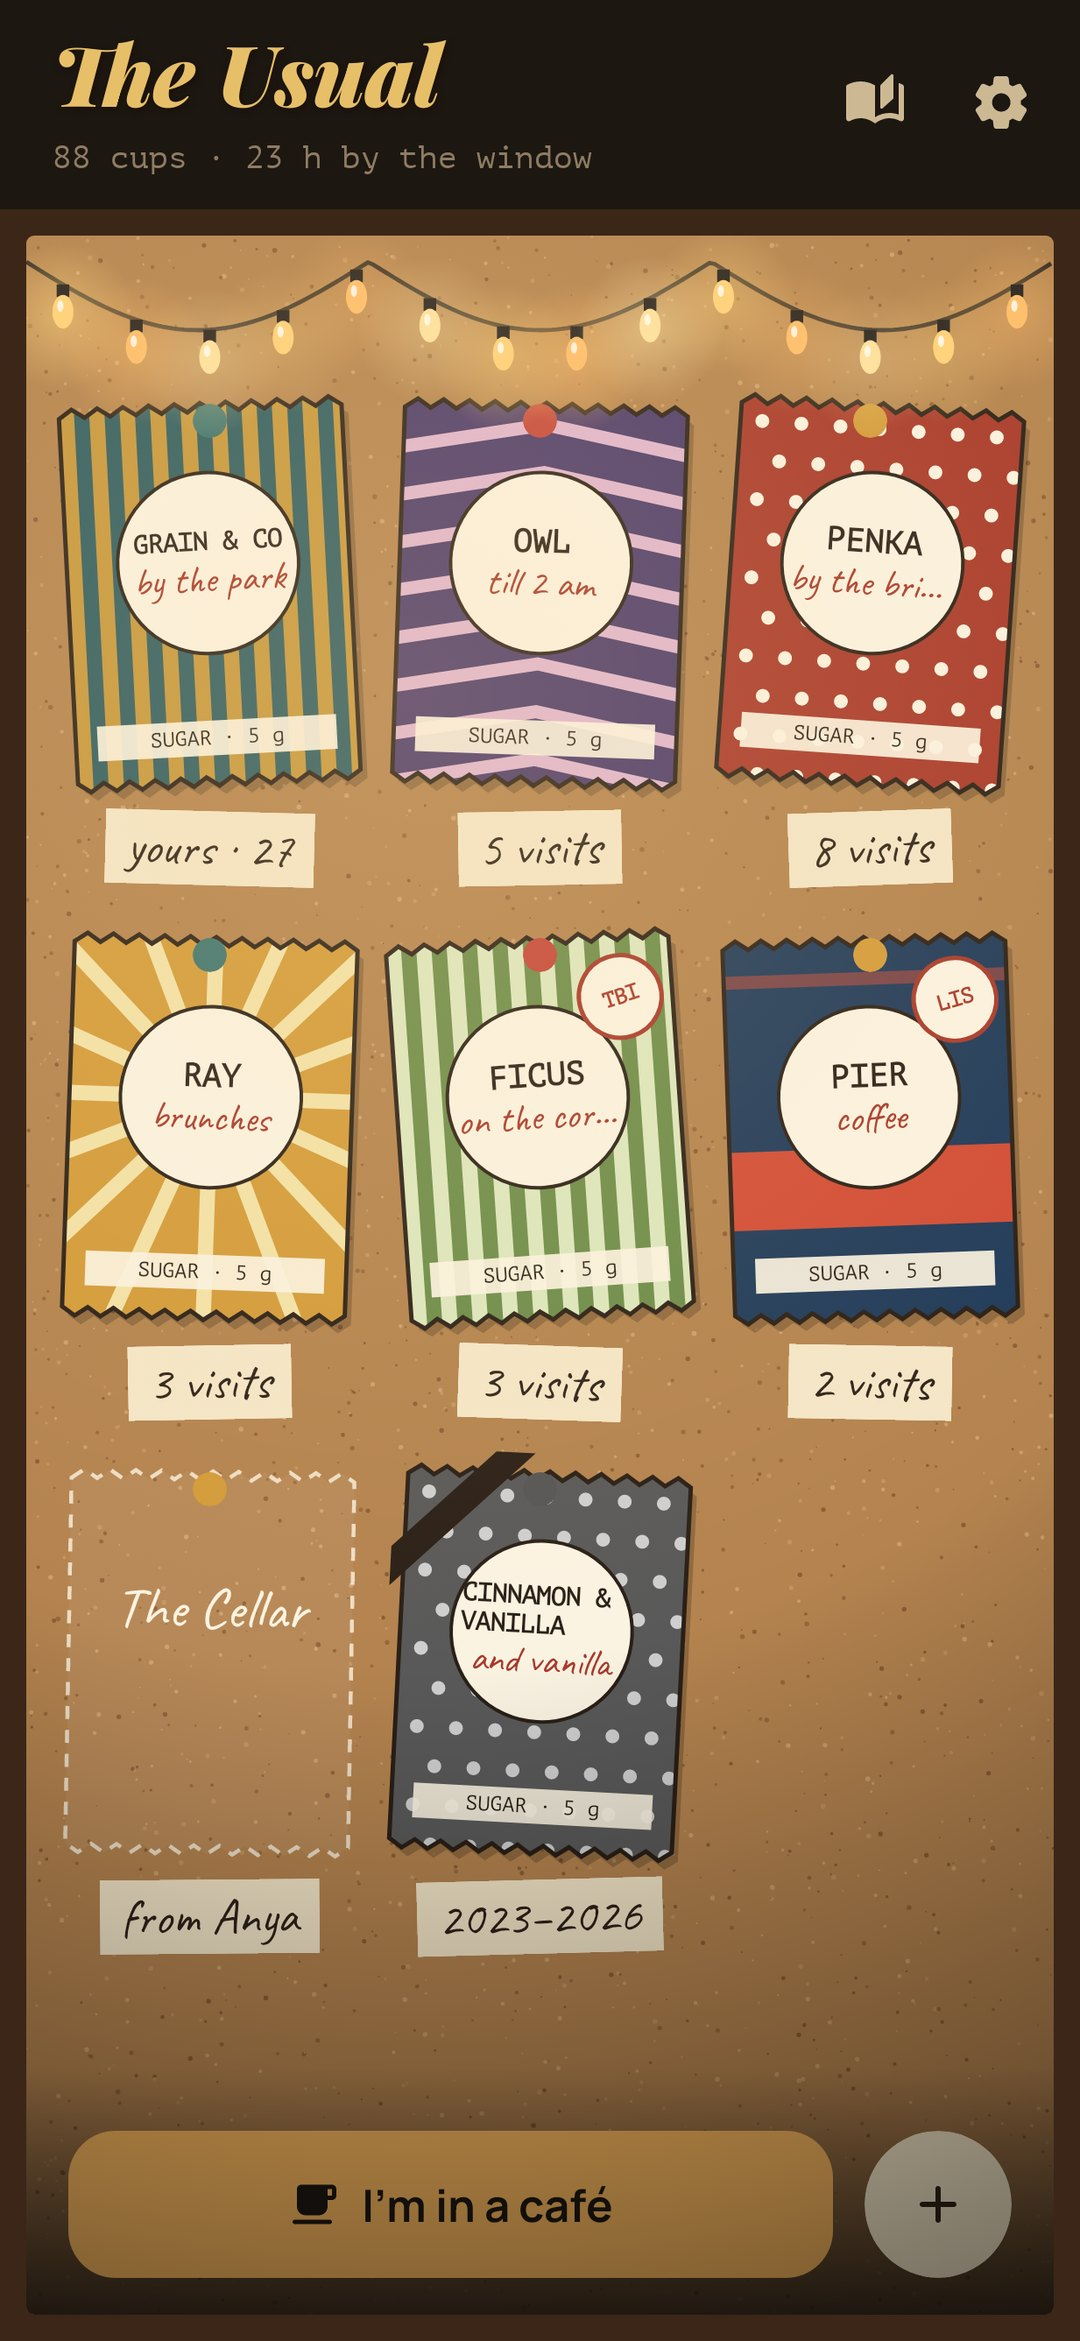
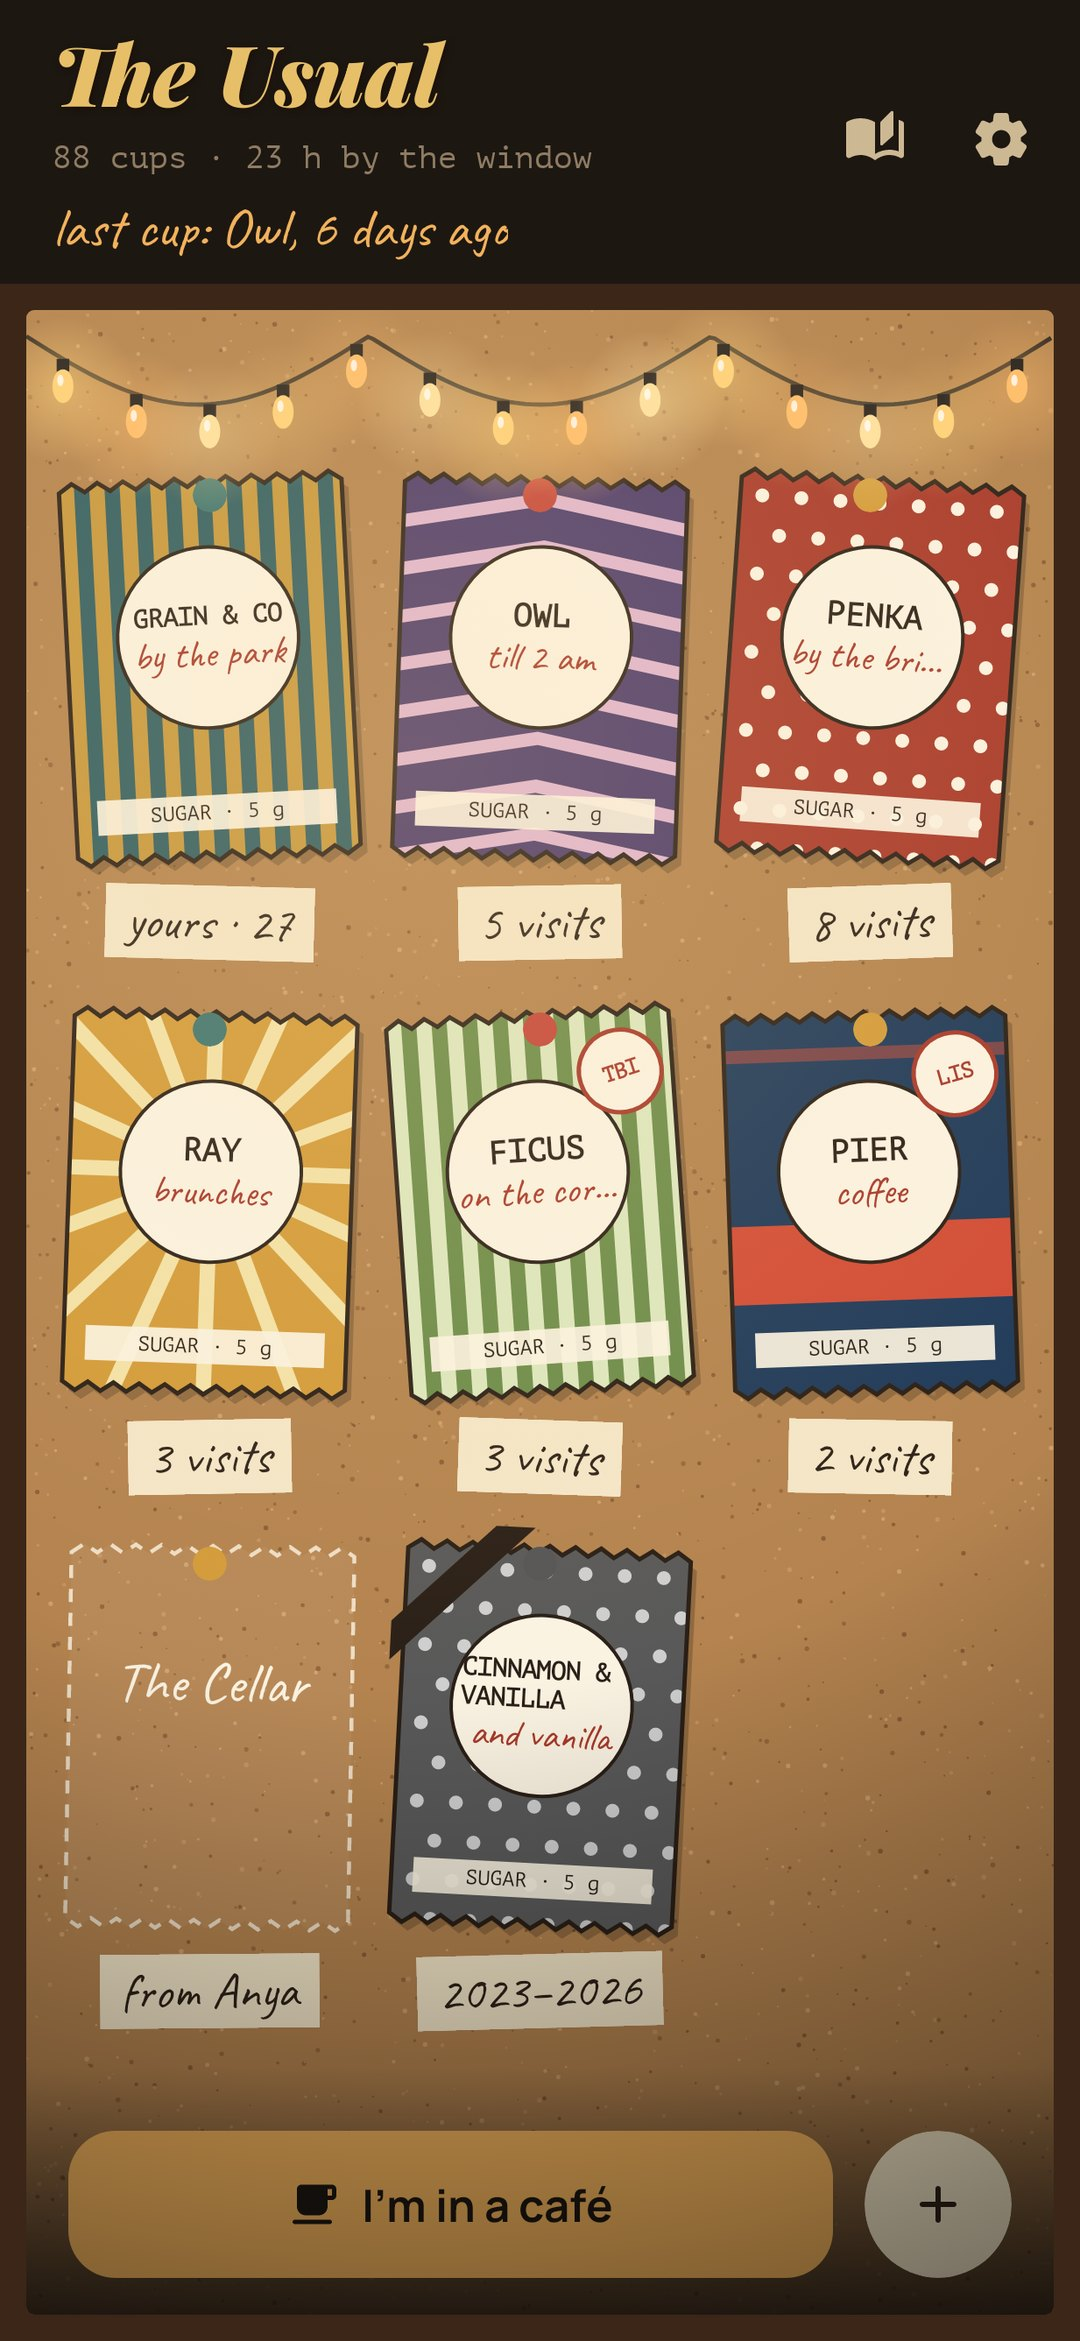
Board shows the last cup; menu gets a label; no '0 min by the window'

diff --git a/app/src/main/java/app/theusual/ui/cafe/CafeScreen.kt b/app/src/main/java/app/theusual/ui/cafe/CafeScreen.kt
@@ -107,7 +107,7 @@ fun CafeScreen(id: Long, h: Home, go: Go) {
                     if (!cafe.closed) IconButton(onClick = { go.share(id) }) { Icon(Icons.AutoMirrored.Rounded.Send, stringResource(R.string.send_packet), tint = U.c.ink) }
                     IconButton(onClick = { go.edit(id) }) { Icon(Icons.Rounded.Edit, stringResource(R.string.edit), tint = U.c.ink) }
                     Box {
-                        IconButton(onClick = { menu = true }) { Icon(Icons.Rounded.MoreVert, null, tint = U.c.ink) }
+                        IconButton(onClick = { menu = true }) { Icon(Icons.Rounded.MoreVert, stringResource(R.string.more), tint = U.c.ink) }
                         DropdownMenu(menu, { menu = false }) {
                             if (cafe.closed) DropdownMenuItem({ Text(stringResource(R.string.reopened)) }, { menu = false; c.container.write { diary.reopen(id) } })
                             else DropdownMenuItem({ Text(stringResource(R.string.it_closed)) }, { menu = false; closing = true })
@@ -173,8 +173,9 @@ private fun Memorial(cafe: Cafe, h: Home) {
         Spacer(Modifier.height(14.dp))
         val first = h.visits(cafe.id).lastOrNull()?.at ?: cafe.addedAt
         Text("${Rules.year(first)} — ${Rules.year(cafe.closedAt)}", fontFamily = Hand, fontSize = 30.sp, color = U.c.ink)
+        val window = h.window(cafe.id)
         Text(
-            T.plural(c, R.plurals.visits, h.count(cafe.id)) + " · " + stringResource(R.string.by_window, T.window(c, h.window(cafe.id))),
+            T.plural(c, R.plurals.visits, h.count(cafe.id)) + if (window > 0) " · " + stringResource(R.string.by_window, T.window(c, window)) else "",
             fontFamily = Mono, fontSize = 12.sp, color = U.c.muted,
         )
         if (cafe.farewell.isNotBlank()) {

diff --git a/app/src/main/java/app/theusual/ui/board/BoardScreen.kt b/app/src/main/java/app/theusual/ui/board/BoardScreen.kt
@@ -97,6 +97,13 @@ fun BoardScreen(h: Home, go: Go) {
                     T.plural(c, R.plurals.cups, cups) + " · " + stringResource(R.string.by_window, T.window(c, h.windowMin)),
                     fontFamily = Mono, fontSize = 12.sp, color = U.c.faint,
                 )
+                h.latest?.let { (v, cafe) ->
+                    Text(
+                        stringResource(R.string.last_cup, cafe.name, T.ago(c, v.at)),
+                        fontFamily = Hand, fontSize = 21.sp, color = U.c.amber, maxLines = 1, overflow = TextOverflow.Ellipsis,
+                        modifier = Modifier.padding(top = 2.dp).clip(U.RSm).clickable { go.cafe(cafe.id) },
+                    )
+                }
             }
             IconButton(onClick = go::year) { Icon(Icons.Rounded.AutoStories, stringResource(R.string.year_title), tint = U.c.muted) }
             IconButton(onClick = go::settings) { Icon(Icons.Rounded.Settings, stringResource(R.string.settings), tint = U.c.muted) }

diff --git a/app/src/main/java/app/theusual/ui/Texts.kt b/app/src/main/java/app/theusual/ui/Texts.kt
@@ -33,6 +33,18 @@ object T {
     /** "12.03.24", for a receipt. */
     fun stamp(at: Long): String = Instant.ofEpochMilli(at).atZone(zone()).toLocalDate().format(DateTimeFormatter.ofPattern("dd.MM.yy"))
 
+    /** "today", "yesterday", "5 days ago", or the date for anything older than two weeks. */
+    fun ago(c: Context, at: Long, today: LocalDate = LocalDate.now()): String {
+        val d = Instant.ofEpochMilli(at).atZone(zone()).toLocalDate()
+        val days = java.time.temporal.ChronoUnit.DAYS.between(d, today).toInt()
+        return when {
+            days <= 0 -> c.getString(R.string.today)
+            days == 1 -> c.getString(R.string.yesterday)
+            days < 14 -> plural(c, R.plurals.days_ago, days)
+            else -> date(c, at, today)
+        }
+    }
+
     /** "41 h" or "35 min". */
     fun window(c: Context, min: Int): String =
         if (min >= 60) c.getString(R.string.hours_only, min / 60) else c.getString(R.string.minutes_short, min)

diff --git a/app/src/main/java/app/theusual/ui/Root.kt b/app/src/main/java/app/theusual/ui/Root.kt
@@ -103,6 +103,9 @@ class Home(
     }
 
     val open: List<Cafe> = cafes.filter { !it.closed }
+
+    /** The latest cup of all, and where it was drunk. */
+    val latest: Pair<Visit, Cafe>? = visits.maxByOrNull { it.at }?.let { v -> byId[v.cafeId]?.let { v to it } }
     val windowMin: Int = visits.sumOf { it.windowMin }
 }
 
